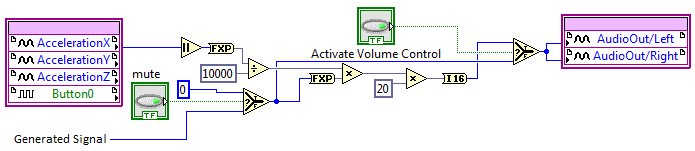
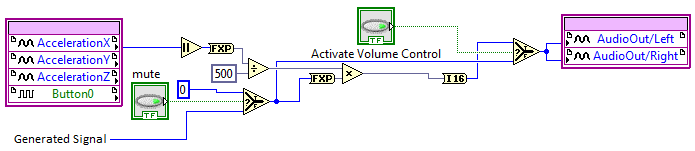
Added Musical Instrument part.

Changed region(s): [[0.5137, 0.4503, 0.6345, 0.6623], [0.2719, 0.4238, 0.3324, 0.5563]]

diff --git a/paper/untitled-1.tex b/paper/untitled-1.tex
@@ -235,6 +235,7 @@
 
 
 \documentclass[journal,a4paper]{IEEEtran}
+\usepackage[cmex10]{amsmath}
 \usepackage{gensymb}
 \usepackage{filecontents}
 \usepackage{filecontents,lipsum}
@@ -412,13 +413,13 @@
 
 % The Abstract
 \begin{abstract}
-This paper presents a custom instrument and an audio effects processor consisting of master volume, 3 band equalization, echo, and left-right balance. 
-These applications were implemented on two separate National Instruments MyRio boards using labView. 
+This paper presents a custom instrument capable of tone generation, variable tone quality, accelerometer based pitch and volume control, and an audio effects processor consisting of master volume, 3 band equalization, echo, and left-right balance. 
+These applications were implemented on two separate National Instruments myRIO boards using labVIEW. 
 \end{abstract}
 
 % The Keywords 
 \begin{IEEEkeywords}
-3 band eq, echo, MyRio, labView, audio processing. 
+tone generation, tone quality, accelerometer, 3 band eq, echo, myRIO, labVIEW, audio processing. 
 \end{IEEEkeywords}
 
 \IEEEpeerreviewmaketitle
@@ -448,27 +449,81 @@ Unlike other methods of achieving full duplex, this setup relies on the symmetry
 
 
 \section{Implementation of a Musical Instrument}
+The musical instrument is designed to be able to produce three separate notes with adjustable tone qualities and volumes.
+ These attributes are varied by the user through the LabVIEW front panel seen in Fig. \ref{fig_p1front}.
+ Frequencies for the notes are calculated in the microcontroller, and the signal generation and processing are implemented in the FPGA of the myRIO board.
+ The FPGA is run at maximum clock speed, 40 MHz, to ensure operations are completed as quickly as possible.
+ The accelerometer is used as a means for pitch and volume control.
+ The way these units interact with each other can be seen in Fig. \ref{fig_p1block}.
+
+\begin{figure}[!t]
+\centering
+\includegraphics[width=3.5in]{instrumentfrontpanel.png}
+\DeclareGraphicsExtensions.
+\caption{Front panel for user input of the custom musical instrument.}
+\label{fig_p1front}
+\end{figure} 
+
+\begin{figure}[!t]
+\centering
+\includegraphics[width=3in]{part1blockdiagram.png}
+\DeclareGraphicsExtensions.
+\caption{Block diagram of the implementaion of the musical instrument.}
+\label{fig_p1block}
+\end{figure} 
+
 \subsection{Frquency Generation}
 
+When generating the fundamental frequencies on the microprocessor, a button is used to control whether the board will be outputting chords or single notes (Chords), and a button used to control whether the notes being output are continuous or discrete (Slide).
+ If the Slide button is pressed, we simply take the y-component of the accelerometer and manipulate it using arithmetic operations and send that frequency to be adjusted by the Octave slide on the front panel, to be discussed later.
+ Alternatively, if the Slide button is not pressed, the y-component of the acceleration is sent to a custom made VI which discretizes the frequency into discrete notes.
 
+This custom VI takes in the y-acceleration as input and outputs the discrete frequency representing a particular note and a string letter representation of the output frequency.
+ The output frequency will be 1 of 11 notes of a pentatonic scale with the blues note added spanning over two octaves (\(B_{2} - D_{3} - E_{3} - G_{3} - A_{3} - B^{b}_{3} - B_{3} - D_{4} - E_{4} - G_{4} - A_{4}\)) and is calculated using a sum of step functions.
+ In order to obtain the frequency of a respective note, the entire range of accelerometer values is first divided into 12 ranges, where each range is assigned to a particular note.
+ The input accelerometer values is subtracted by the upper limits of these ranges and the values will be used to shift the step functions of each note.
+ Since the step functions now output values of 0 or 1 depending on the value of the accelerometer input, then if the accelerometer value is within a certain range, all step functions below and including the current range will output 1, while the ones connected to the higher notes will output 0.
+ The value of the first note is directly multiplied by the value of its step function, but for subsequent notes, the difference between the frequencies of the current note and the previous note is multiplied by the value of its step function.
+ The outputs of the step functions are finally added together and we obtain an equation for the discrete notes, seen below.
+\begin{equation}
+\label{hargen}
+\begin{split}
+ f_{dis}=f_{0}\cdot u \left( t- \left( A_{y}- \left( 260- \left( n-1  \right) \cdot \frac{520}{n} \right) \right) \right) +\\ \sum_{i=1, j=2}^{i=11,j=n-1}\Delta f_{i-1,i} \cdot u\left (t-\left (A_{y}-\left (260- \left( n-1  \right) \cdot \frac{520}{n}  \right) \right) \right)
+\end{split}
+\end{equation}
+
+In equation \ref{hargen}, $i$ represents the indexed frequencies of musical notes, $j$ represents the index of the accelerometer ranges, and $n = 12$ represents the number of accelerometer ranges.
+
+The string representation of the output frequency is obtained by retrieving a certain index in a pre-defined string array.
+ This index is obtained by adding the values of each of the step functions.
+
+An Octave slide is used to increase and decrease the octave of either the continuous or discrete notes.
+ This is done using a scale by power of 2 function, since going up or down an octave is done by simply multiplying/dividing the frequency by 2.
+
+Power chords were then generated by adding a note with its fifth, which is 1.5 times the the notes fundamental frequency [1].
+ The next octave (2x) of the note is also added in order to increase the fullness of the sound.
+ Finally, the calculated fundamental frequencies are used to generate audio signals in the FPGA.
 
 \subsection{Signal Generation and Processing}
 The instrument creates a tone quality for each note by generating the fundamental frequency signal and combining it with the four subsequent harmonics.
- Since the operations required for signal generation and processing require fast performance, the signal generation and processing logic is designed on the onboard FPGA of the NI MyRio.
- Fig.\ref{fig_notegen} shows the implementation of signal generation in LabVIEW. Sine wave generator blocks are used to produce a sine wave at a calculated frequency.
+ Since the operations required for signal generation and processing require fast performance, the signal generation and processing logic is designed on the onboard FPGA of the NI myRIO.
+ Fig. \ref{fig_notegen} shows the implementation of signal generation in LabVIEW.
+ Sine wave generator blocks are used to produce a sine wave at a calculated frequency and a set sampling rate of 44 kHz, chosen due to its common usage for audio sampling.
  To produce four subsequent harmonics, the calculated frequency is multiplied by integer factors, two through five, and the resultant frequencies are used as input to separate sine wave generator blocks.
  An array of fixed point numbers contain the gain level of each harmonic are converted into a cluster, de-bundled, and then multiplied to the output of their respective sine waves before they are summed together.
- This allows for variable tone quality by changing the volume of each harmonic. Multiplication is carried out using fixed point arithmetic for increased precision.
+ This allows for variable tone quality by changing the volume of each harmonic.
+ Multiplication is carried out using fixed point arithmetic for increased precision, requiring the 16 bit integer outputs of the sine wave generator to be converted to fixed point.
 
-Three instances of the signal generation code are used to generate three separate notes.
- Similar to the harmonic volume each note is multiplied by a fixed point number gain to control the volume of each note.
- Chords are enabled by a summation of the three separate notes.
+Three instances of the signal generation code are used to generate three separate notes. 
+Similar to the harmonic volume each note is multiplied by a fixed point number gain to control the volume of each note. 
+Chords are implemented by a summation of the three separate notes.
 
-Acceleration controlled volume level of the output signal is achieved through scaling the raw acceleration data from the native accelerometer to the NI MyRio, and multiplying the result with the output signal.
- Similar to signal generation, multiplication is carried out using fixed point numbers for precision.
- Fig.\ref{fig_accvol} shows the implementation of signal volume control in LabVIEW.
+Acceleration controlled volume level of the output signal is achieved through scaling the raw acceleration data from the native accelerometer to the myRIO, and multiplying the result with the output signal. 
+Similar to signal generation, multiplication is carried out using fixed point numbers for precision. 
+ Fig. \ref{fig_accvol} shows the implementation of signal volume control in LabVIEW.
  A select block controlled by a control is used to switch between the signal at acceleration controlled volume and at maximum volume.
  Mute functionality is implemented similarly with a select block switching between the generated signal and no signal.
+ The onboard button is also used to toggle the mute control when pressed and held, achieved by a select block and a not gate in the microcontroller code.
 
 
 \begin{figure}[!t]
@@ -674,6 +729,20 @@ This results in either a gain or attenuation depending on what value was chosen.
 
 \section{Discussion}
 \subsection{Custom Instrument}
+The musical instrument unit was developed creating a basic instrument first and then adding features on using a modular approach. 
+ Initially implementing a basic sound generator was essential since testing required listening to the changes in the sounds produced by the instrument.
+
+To test generating frequencies the board wad moved in the y-direction and the 11 discrete notes were compared to tones generated by a known source. The non-discretized pitch control was tested by listening for a continuous pitch change along the entire range of the accelerometer values. Chords were tested by differentiating between three different notes being played simultaneously using their seperate volume controls. Octave changes were tested by listening to the note and making sure that the pitch increased but the note remained constant.
+
+Volume control using the accelerometer was first implemented by multiplying the output audio signal with the 16 bit integer value of the acceleration in the x-direction.
+ The volume range was too large for stable control by the user, therefore fixed point conversion and scaling the raw acceleration data before multiplication with the output signal was implemented.
+ A scaling factor of 50 was chosen since it produced an optimal volume range.
+
+Tone quality was the final implemented feature to maximize FPGA usage.
+ More sine wave generator blocks per note lead to a wider range of sounds; however, these blocks require a large amount of FPGA resources in LUTs.
+ The optimal amount of signal generators was chosen through trial and error to be five per note, (resulting in fifteen in total for the entire FPGA), using 82% of the LUTs available.
+ Adding more sine wave generator blocks result in an overuse of resources despite there being 18% of LUTs remaining, most likely due to routing constraints.
+
 \subsection{Audio Effects Processing Unit}
 The audio effects processing unit was developed one component at a time, working up from what was estimated as the easiest implementation to the most difficult. 
 Volume and left-right balance were first to be implemented and little trouble was had in their development. Some adjustments were made later on regarding the amount of maximum gain to allow each stage to prevent distortion in the final output signal. 
